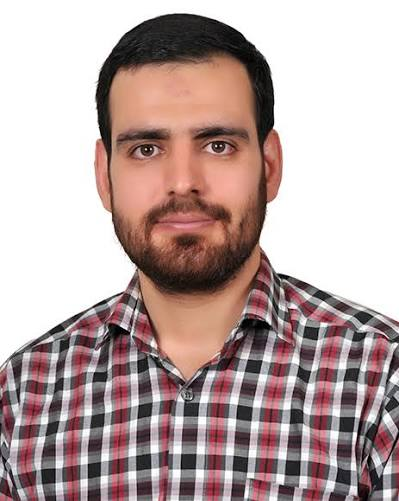
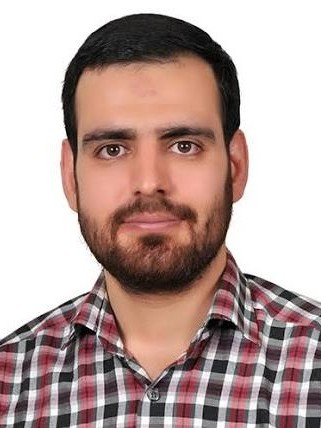
Add files via upload

diff --git a/styles.css b/styles.css
@@ -26,9 +26,10 @@ a{color:inherit;text-decoration:none}
 .brand{display:flex;align-items:center;gap:12px;font-weight:800;letter-spacing:-.02em}
 .brand-logo{height:44px;width:auto;border-radius:8px;display:block;flex:none;background:#fff;box-shadow:0 4px 12px -6px rgba(11,27,52,.45)}
 .brand small{display:block;font-weight:500;color:var(--muted);font-size:12px;letter-spacing:.02em}
+.icv{color:#0077e6}
 .nav-links{display:flex;gap:22px;font-size:14.5px;color:#334155;font-weight:500}
 .nav-links a:hover{color:var(--accent)}
-.btn{display:inline-flex;align-items:center;gap:8px;border-radius:999px;padding:10px 18px;font-weight:600;font-size:14px;border:1px solid var(--line);background:#fff;color:var(--ink);transition:.2s;cursor:pointer}
+.btn{display:inline-flex;align-items:center;gap:8px;border-radius:999px;padding:10px 18px;font-weight:600;font-size:14px;border:1px solid var(--line);background:#fff;color:var(--ink);transition:.2s;cursor:pointer;white-space:nowrap}
 .btn:hover{transform:translateY(-1px);box-shadow:var(--shadow)}
 .btn-primary{background:linear-gradient(135deg,var(--accent),var(--accent-2));color:#fff;border-color:transparent}
 .btn-primary:hover{box-shadow:0 10px 22px -12px rgba(2,132,199,.8)}
@@ -40,20 +41,20 @@ a{color:inherit;text-decoration:none}
 .hero-inner{max-width:1120px;padding:72px 0 54px;display:flex;gap:60px;align-items:flex-start}
 .hero-main{flex:1;min-width:0}
 .hero-top{display:flex;align-items:center;gap:34px;margin-bottom:30px}
-.hero-logo{height:140px;width:auto;border-radius:18px;display:block;flex:none;border:1px solid var(--line);background:#fff;padding:9px;box-shadow:0 18px 40px -22px rgba(2,132,199,.6)}
+.hero-logo{height:140px;width:auto;border-radius:18px;display:block;flex:none;border:1px solid var(--line);background:#fff;padding:9px;box-shadow:0 6px 18px -8px rgba(2,132,199,.35),0 2px 6px -2px rgba(11,27,52,.12)}
 .eyebrow{display:inline-flex;align-items:center;gap:9px;font-size:12px;font-weight:700;letter-spacing:.13em;text-transform:uppercase;color:var(--accent)}
-.dot{width:6px;height:6px;border-radius:50%;background:var(--accent-2)}
 h1{font-size:clamp(38px,5.4vw,58px);line-height:1.04;letter-spacing:-.04em;margin:18px 0 20px;font-weight:700}
-h1 .uni{display:block;font-size:17px;font-weight:500;color:var(--muted);letter-spacing:-.01em;margin-top:14px}
+h1 .uni{display:flex;align-items:center;gap:10px;font-size:18px;font-weight:500;color:var(--muted);letter-spacing:-.01em;margin-top:14px}
+.uni-logo{height:32px;width:auto;display:inline-block;flex:none;filter:drop-shadow(0 2px 4px rgba(11,27,52,.08))}
 .lead{font-size:17px;line-height:1.7;color:#475569;max-width:62ch;margin:0 0 8px}
 .hero-actions{display:flex;flex-direction:column;gap:10px}
 .hero-actions .btn{justify-content:center;text-align:center;width:100%}
 .btn-link{display:inline-flex;align-items:center;justify-content:center;gap:7px;font-size:14px;font-weight:600;color:var(--accent);transition:.18s;border:1px solid transparent}
 .btn-link:hover{color:var(--ink);gap:9px}
-.hero-meta{display:flex;flex-direction:column;gap:20px;margin:0;width:280px;background:#f8fafc;border:1px solid var(--line);border-radius:18px;padding:22px;flex-shrink:0;box-shadow:var(--shadow)}
-.hero-meta-list{display:grid;grid-template-columns:1fr;gap:14px;margin:0}
+.hero-meta{display:flex;flex-direction:column;gap:24px;margin:0;width:290px;background:#f8fafc;border:1px solid var(--line);border-radius:18px;padding:24px 22px;flex-shrink:0;box-shadow:var(--shadow)}
+.hero-meta-list{display:grid;grid-template-columns:1fr;gap:18px;margin:0}
 .hero-meta-list dt{font-size:11.5px;text-transform:uppercase;letter-spacing:.1em;color:var(--muted);font-weight:700}
-.hero-meta-list dd{margin:5px 0 0;font-size:14px;font-weight:600;letter-spacing:-.01em;word-break:break-word}
+.hero-meta-list dd{margin:6px 0 0;font-size:14px;font-weight:600;letter-spacing:-.01em;word-break:break-word;line-height:1.45}
 
 /* Sections */
 .section{padding:48px 0 8px}
@@ -104,24 +105,29 @@ h1 .uni{display:block;font-size:17px;font-weight:500;color:var(--muted);letter-s
 
 /* Featured (lab director) wide card */
 .director-section{margin-bottom:34px}
-.card-wide{grid-column:1/-1;flex-direction:row;min-height:220px;height:auto;background:linear-gradient(120deg,#0c4a6e 0%,#0284c7 55%,#0ea5e9 100%);color:#fff;border:1px solid rgba(255,255,255,.14);box-shadow:0 24px 50px -22px rgba(8,47,73,.7);position:relative}
+.card-wide{grid-column:1/-1;flex-direction:row;min-height:230px;height:auto;background:linear-gradient(120deg,#0c4a6e 0%,#0284c7 55%,#0ea5e9 100%);color:#fff;border:1px solid rgba(255,255,255,.14);box-shadow:0 24px 50px -22px rgba(8,47,73,.7);position:relative}
 .card-wide::after{content:"";position:absolute;left:0;right:0;bottom:-22px;height:2px;border-radius:2px;background:linear-gradient(90deg,transparent,rgba(56,189,248,.75) 18%,rgba(56,189,248,.75) 82%,transparent)}
-.card-wide .card-top{width:200px;min-height:220px;height:auto;flex:none}
+.card-wide .card-top{width:210px;min-height:230px;height:auto;flex:none}
 .card-wide .card-top img{width:100%;height:100%;object-fit:cover;object-position:top}
 .card-wide .badge{font-size:11px;background:rgba(255,255,255,.95);color:var(--ink);top:10px;left:10px}
-.wide-body{display:flex;flex-direction:column;justify-content:space-between;padding:18px 24px 8px;flex:1;min-width:0;gap:12px}
-.wide-content{display:flex;flex-direction:column;gap:10px}
-.wide-head{display:flex;align-items:center;gap:14px;flex-wrap:wrap}
-.wide-head h3{margin:0;font-size:20px;letter-spacing:-.03em;font-weight:700}
-.tag-cat{background:rgba(255,255,255,.18);color:#fff;border-color:rgba(255,255,255,.35);text-transform:uppercase;letter-spacing:.07em;font-size:11px;font-weight:600;padding:5px 12px}
-.wide-desc{display:-webkit-box;-webkit-line-clamp:2;-webkit-box-orient:vertical;overflow:hidden;font-size:13.5px;max-width:84ch;flex:none;margin:0;color:rgba(255,255,255,.86);line-height:1.55}
-.wide-details{display:flex;align-items:center;justify-content:space-between;gap:16px;flex-wrap:wrap;margin-top:2px}
-.wide-meta{display:flex;align-items:center;gap:16px;font-size:12.5px;color:rgba(255,255,255,.85);flex-wrap:wrap}
-.meta-item{display:inline-flex;align-items:center;gap:6px;background:rgba(255,255,255,.1);border:1px solid rgba(255,255,255,.18);padding:3px 10px;border-radius:999px}
-.meta-icon{font-size:13px;opacity:.9}
-.card-wide .card-foot{border-top:1px solid rgba(255,255,255,.18);padding:10px 0 6px;margin-top:0}
-.card-wide .view{font-size:13px;color:#e0f2fe}
-.card-wide .tag{background:rgba(255,255,255,.14);border-color:rgba(255,255,255,.24);color:#eaf2ff;padding:3px 9px;font-size:11px}
+.wide-body{display:flex;flex-direction:column;justify-content:space-between;padding:22px 26px 12px;flex:1;min-width:0;gap:14px}
+.wide-content{display:flex;flex-direction:column;gap:12px;flex:1}
+.wide-head{display:flex;flex-direction:column;align-items:flex-start;gap:10px}
+.wide-head h3{margin:0;font-size:22px;letter-spacing:-.03em;font-weight:700}
+.tag-cat{background:rgba(255,255,255,.2);color:#fff;border-color:rgba(255,255,255,.38);text-transform:uppercase;letter-spacing:.06em;font-size:11.5px;font-weight:700;padding:5px 12px;display:inline-block}
+.wide-desc{display:-webkit-box;-webkit-line-clamp:2;-webkit-box-orient:vertical;overflow:hidden;font-size:14.5px;max-width:88ch;flex:none;margin:2px 0 0;color:rgba(255,255,255,.92);line-height:1.6}
+.wide-tags-row{margin-top:auto;padding-top:6px}
+.card-wide .tags{gap:6px}
+.card-wide .tag{background:rgba(255,255,255,.15);border-color:rgba(255,255,255,.26);color:#f0f7ff;padding:4px 11px;font-size:12px;font-weight:500}
+.card-wide .card-foot{border-top:1px solid rgba(255,255,255,.18);padding:10px 0 4px;margin-top:4px}
+.wide-foot-left{display:flex;align-items:center;gap:14px;flex-wrap:wrap}
+.wide-meta{display:inline-flex;align-items:center;gap:10px;font-size:13px;color:rgba(255,255,255,.88);flex-wrap:wrap}
+.meta-item{display:inline-flex;align-items:center;gap:5px;background:none;border:none;padding:0;font-size:13px;font-weight:500;color:rgba(255,255,255,.9)}
+.meta-link{color:rgba(255,255,255,.95);text-decoration:none;transition:color .2s}
+.meta-link:hover{color:#fff;text-decoration:underline}
+.meta-dot{color:rgba(255,255,255,.4);font-weight:bold}
+.meta-icon{font-size:13.5px;opacity:.95}
+.card-wide .view{font-size:13.5px;color:#e0f2fe;font-weight:600}
 .card-wide .icon-btn{background:rgba(255,255,255,.14);border-color:rgba(255,255,255,.3);color:#fff}
 .card-wide .icon-btn:hover{background:#fff;color:var(--accent);border-color:#fff}
 
@@ -134,10 +140,11 @@ h1 .uni{display:block;font-size:17px;font-weight:500;color:var(--muted);letter-s
 
 /* Footer */
 footer{background:var(--navy);color:rgba(255,255,255,.68)}
-.foot{display:flex;justify-content:space-between;gap:24px;padding:38px 0;flex-wrap:wrap;font-size:14px}
+.foot{display:flex;justify-content:space-between;gap:20px;padding:32px 0;flex-wrap:wrap;font-size:13.5px}
 .foot strong{color:#fff}
-.foot-brand{display:flex;gap:12px;align-items:flex-start}
-.foot-logo{height:36px;width:auto;border-radius:8px;flex:none;margin-top:2px;background:#fff;box-shadow:0 6px 16px -8px rgba(0,0,0,.8)}
+.foot-brand{display:flex;gap:12px;align-items:center}
+.foot-logo{height:34px;width:auto;border-radius:6px;flex:none;background:#fff;padding:2px}
+.foot-copy{font-size:13px;color:rgba(255,255,255,.6);line-height:1.5;text-align:right}
 
 /* Member page */
 .back{display:inline-flex;align-items:center;gap:8px;margin:26px 0 18px;font-size:14px;font-weight:600;color:#475569}
@@ -179,23 +186,69 @@ footer{background:var(--navy);color:rgba(255,255,255,.68)}
   .hero-meta{width:100%}
 }
 @media(max-width:760px){
-  .grid{grid-template-columns:repeat(2,1fr)}
-  .card-wide{flex-direction:column;height:auto;margin-bottom:28px}
-  .card-wide .card-top{width:100%;height:200px;min-height:200px}
-  .card-wide .card-top img{min-height:0;height:100%;object-fit:cover;object-position:top}
-  .wide-body{padding:18px 18px 12px;gap:14px}
-  .wide-details{flex-direction:column;align-items:flex-start;gap:10px}
-  .wide-meta{gap:8px}
-  .card-wide .card-foot{padding:12px 0 6px}
+  .nav-inner{height:60px}
+  .nav-right{gap:12px}
+  .nav-right .btn{padding:8px 14px;font-size:13px}
+  .grid{grid-template-columns:repeat(3,1fr);gap:10px}
+  .card-wide{flex-direction:row;align-items:stretch;min-height:0;height:auto;margin-bottom:24px}
+  .card-wide .card-top{width:130px;height:auto;min-height:100%;flex:none}
+  .card-wide .card-top img{width:100%;height:100%;object-fit:cover;object-position:top}
+  .wide-body{padding:14px 16px 10px;gap:8px}
+  .wide-content{gap:8px}
+  .wide-head{gap:8px}
+  .wide-head h3{font-size:17px}
+  .tag-cat{font-size:10px;padding:3px 9px}
+  .wide-desc{font-size:12.5px;line-height:1.5;-webkit-line-clamp:3;margin:0}
+  .wide-tags-row{margin-top:2px;padding-top:0}
+  .wide-foot-left{gap:10px}
+  .wide-meta{gap:6px;margin-left:0}
+  .meta-item{font-size:11.5px}
+  .card-wide .card-foot{padding:8px 0 4px}
+  .card-wide .view{font-size:12px}
   .panel-cta{padding:28px 24px}
 }
 @media(max-width:560px){
-  .grid{grid-template-columns:1fr}
+  .container{padding:0 14px}
+  .brand-logo{height:36px}
+  .brand span{font-size:15px}
+  .brand small{font-size:10px}
+  .nav-right .btn{padding:7px 12px;font-size:12.5px;gap:5px}
+  .grid{grid-template-columns:repeat(3,1fr);gap:8px}
+  .card{border-radius:14px}
+  .card-top{height:125px}
+  .badge{top:6px;left:6px;font-size:9.5px;padding:2px 6px}
+  .card-body{padding:9px 10px 6px;gap:3px}
+  .card-body h3{font-size:13px;line-height:1.2}
+  .role{font-size:10.5px}
+  .desc{display:none}
+  .tags{gap:3px}
+  .tag{font-size:9.5px;padding:2px 5px}
+  .card-foot{padding:6px 10px}
+  .socials{gap:3px}
+  .icon-btn{width:24px;height:24px;border-radius:6px}
+  .icon-btn svg{width:13px;height:13px}
+  .view{font-size:10.5px}
   .hero-inner{padding:48px 0 40px}
   .hero-top{flex-direction:column;align-items:flex-start;gap:22px}
   .hero-logo{height:104px}
-  .section{padding-top:44px}
-  .card-wide .card-top{height:190px;min-height:190px}
-  .wide-head h3{font-size:18px}
-  .meta-item{font-size:12px;padding:3px 8px}
+  .section{padding-top:40px}
+  .card-wide{flex-direction:row}
+  .card-wide .card-top{width:115px;height:auto;min-height:100%}
+  .wide-body{padding:12px 14px 8px;gap:6px}
+  .wide-head h3{font-size:15px}
+  .wide-desc{font-size:11.5px;-webkit-line-clamp:2}
+  .meta-item{font-size:11px}
+  .card-wide .tag{font-size:10px;padding:2px 7px}
+  footer .container{padding:0 20px}
+  .foot{flex-direction:column;gap:12px;padding:24px 0}
+  .foot-copy{text-align:left;font-size:12.5px;line-height:1.6}
+}
+@media(max-width:400px){
+  .card-wide .card-top{width:100px}
+  .wide-head h3{font-size:14px}
+  .meta-item{font-size:10px}
+}
+@media(max-width:380px){
+  .grid{grid-template-columns:repeat(2,1fr);gap:8px}
+  .card-top{height:140px}
 }

diff --git a/index.html b/index.html
@@ -18,7 +18,7 @@
   <nav class="nav">
     <div class="container nav-inner">
       <a class="brand" href="index.html">
-        <img class="brand-logo" src="IUST_logo.png" alt="IUST logo" height="44" />
+        <img class="brand-logo" src="cvlab_iust_logo.jpeg" alt="ICVLab logo" height="44" />
         <span>ICVLab<small>Iran University of Science and Technology</small></span>
       </a>
       <div class="nav-right">
@@ -28,7 +28,7 @@
           <a href="#publications">Publications</a>
           <a href="#contact">Contact</a>
         </div>
-        <a class="btn btn-primary" href="#members">Members →</a>
+        <a class="btn btn-primary" href="#members">Members</a>
       </div>
     </div>
   </nav>
@@ -41,7 +41,7 @@
             <img class="hero-logo" src="cvlab_iust_logo.jpeg" alt="ICVLab logo" height="140" />
             <div>
               <span class="eyebrow"><span class="dot"></span><span id="lab-eyebrow"></span></span>
-              <h1>ICVLab<span class="uni">Iran University of Science and Technology</span></h1>
+              <h1><span class="icv">ICV</span>Lab<span class="uni">Iran University of Science and Technology<img class="uni-logo" src="IUST_logo.png" alt="IUST logo" height="32" /></span></h1>
             </div>
           </div>
           <p class="lead" id="hero-subtitle"></p>
@@ -49,8 +49,8 @@
         <div class="hero-meta">
           <dl class="hero-meta-list">
             <div>
-              <dt>Department</dt>
-              <dd id="fact-dept"></dd>
+              <dt>Location</dt>
+              <dd id="fact-loc"></dd>
             </div>
             <div>
               <dt>Email</dt>
@@ -58,8 +58,8 @@
             </div>
           </dl>
           <div class="hero-actions">
-            <a class="btn btn-primary" href="#contact">Contact the lab →</a>
-            <a class="btn btn-ghost btn-link" href="#members">Meet the team</a>
+            <a class="btn btn-primary" href="#contact">Contact the lab</a>
+            <a class="btn" href="#members">Meet the team</a>
           </div>
         </div>
       </div>
@@ -126,11 +126,13 @@
 
   <footer>
     <div class="container foot">
-      <div class="foot-brand"><img class="foot-logo" src="cvlab_iust_logo.jpeg" alt=""
-          height="36" /><span><strong>ICVLab</strong> · Iran University of Science and Technology<br><span
-            id="foot-uni"></span></span></div>
-      <div>Built as a lightweight static site — edit <strong>data.js</strong> to replace sample members.<br>© 2026
-        ICVLab</div>
+      <div class="foot-brand">
+        <img class="foot-logo" src="IUST_logo.png" alt="IUST logo" height="36" />
+        <span><strong>ICVLab</strong> · Iran University of Science and Technology<br><span id="foot-uni"></span></span>
+      </div>
+      <div class="foot-copy">
+        Department of Artificial Intelligence & Robotics<br>© 2026 ICVLab. All rights reserved.
+      </div>
     </div>
   </footer>
 
@@ -146,9 +148,9 @@
 
     document.getElementById('hero-subtitle').textContent = LAB_INFO.heroSubtitle;
     document.getElementById('lab-eyebrow').textContent = 'Open positions · MSc & PhD students';
-    document.getElementById('fact-dept').textContent = LAB_INFO.department;
+    if (document.getElementById('fact-dept')) document.getElementById('fact-dept').textContent = LAB_INFO.department;
     if (document.getElementById('fact-loc')) document.getElementById('fact-loc').textContent = LAB_INFO.location;
-    document.getElementById('fact-email').textContent = LAB_INFO.email;
+    if (document.getElementById('fact-email')) document.getElementById('fact-email').textContent = LAB_INFO.email;
     const founded = LAB_INFO.founded;
     if (document.getElementById('fact-year')) document.getElementById('fact-year').textContent = founded || '';
     document.getElementById('contact-email').textContent = LAB_INFO.email;
@@ -173,19 +175,22 @@
         <div class="wide-content">
           <div class="wide-head">
             <h3>${prof.name}</h3>
-            <span class="tag tag-cat">Associated Professor</span>
+            <div><span class="tag tag-cat">Associated Professor</span></div>
           </div>
           <p class="desc wide-desc">${prof.bio}</p>
-          <div class="wide-details">
+          <div class="wide-tags-row">
             <div class="tags">${prof.tags.map(t => `<span class="tag">${t}</span>`).join('')}</div>
+          </div>
+        </div>
+        <div class="card-foot wide-foot">
+          <div class="wide-foot-left">
+            <div class="socials">${iconBtn(prof.github, 'GitHub', gh)}${iconBtn(prof.linkedin, 'LinkedIn', li)}</div>
             <div class="wide-meta">
-              <span class="meta-item"><span class="meta-icon">✉</span>${prof.email}</span>
+              <a class="meta-item meta-link" href="mailto:${prof.email}" onclick="event.stopPropagation()"><span class="meta-icon">✉</span>${prof.email}</a>
+              <span class="meta-dot">·</span>
               <span class="meta-item"><span class="meta-icon">📍</span>${prof.location}</span>
             </div>
           </div>
-        </div>
-        <div class="card-foot">
-          <div class="socials">${iconBtn(prof.github, 'GitHub', gh)}${iconBtn(prof.linkedin, 'LinkedIn', li)}</div>
           <span class="view">View full profile →</span>
         </div>
       </div>

diff --git a/data.js b/data.js
@@ -6,7 +6,7 @@ const LAB_INFO = {
   university: "Iran University of Science and Technology",
   department: "Department of Computer Engineering",
   email: "contact@cvlab.university.edu",
-  location: "Engineering Building, Room 404",
+  location: "2nd Floor, Computer Engineering Building",
   heroTitle: "ICVLab",
   heroSubtitle:
     "Computer Vision Laboratory of the Department of Artificial Intelligence and Robotics, School of Computer Engineering at Iran University of Science and Technology.",
@@ -134,22 +134,22 @@ const MEMBERS = [
     projects: ["Visual Learning Models"],
   },
   {
-    id: "attila-roshani",
-    name: "Attila Roshani",
+    id: "mehrshad-fallah",
+    name: "Mehrshad Fallah",
     role: "Graduate Researcher",
-    category: "BSc",
-    image: "profile_pics/Attila_Roshani.jpeg",
-    shortBio: "Working on real-time visual tracking, detection, and scene perception.",
-    tags: ["Object Detection", "Tracking", "Real-time AI"],
+    category: "MSc",
+    image: "profile_pics/Mehrshad_Fallah.jpg",
+    shortBio: "Researching computer vision, deep learning representations, and intelligent systems.",
+    tags: ["Computer Vision", "Deep Learning", "Pattern Recognition"],
     github: "https://github.com/",
     linkedin: "https://linkedin.com/",
-    email: "attila_roshani@iust.ac.ir",
+    email: "mehrshad_fallah@iust.ac.ir",
     location: "Lab Room 404",
-    bio: "Attila Roshani researches real-time object tracking, detection systems, and dynamic scene understanding at ICVLab.",
+    bio: "Mehrshad Fallah is a graduate researcher at ICVLab at Iran University of Science and Technology, focusing on computer vision and deep learning models.",
     education: ["M.Sc. Student in Computer Engineering, IUST"],
-    interests: ["Object Tracking", "Object Detection", "Edge Vision"],
+    interests: ["Computer Vision", "Deep Learning", "Visual Representation"],
     publications: [],
-    projects: ["Dynamic Scene Perception"],
+    projects: ["Deep Vision Systems"],
   },
   {
     id: "kamyar-moradian",
@@ -206,21 +206,21 @@ const MEMBERS = [
     projects: ["Self-Supervised Vision"],
   },
   {
-    id: "mehrshad-fallah",
-    name: "Mehrshad Fallah",
+    id: "attila-roshani",
+    name: "Attila Roshani",
     role: "Graduate Researcher",
-    category: "MSc",
-    image: "profile_pics/Mehrshad_Fallah.jpg",
-    shortBio: "Researching computer vision, deep learning representations, and intelligent systems.",
-    tags: ["Computer Vision", "Deep Learning", "Pattern Recognition"],
+    category: "BSc",
+    image: "profile_pics/Attila_Roshani.jpeg",
+    shortBio: "Working on real-time visual tracking, detection, and scene perception.",
+    tags: ["Object Detection", "Tracking", "Real-time AI"],
     github: "https://github.com/",
     linkedin: "https://linkedin.com/",
-    email: "mehrshad_fallah@iust.ac.ir",
+    email: "attila_roshani@iust.ac.ir",
     location: "Lab Room 404",
-    bio: "Mehrshad Fallah is a graduate researcher at ICVLab at Iran University of Science and Technology, focusing on computer vision and deep learning models.",
+    bio: "Attila Roshani researches real-time object tracking, detection systems, and dynamic scene understanding at ICVLab.",
     education: ["M.Sc. Student in Computer Engineering, IUST"],
-    interests: ["Computer Vision", "Deep Learning", "Visual Representation"],
+    interests: ["Object Tracking", "Object Detection", "Edge Vision"],
     publications: [],
-    projects: ["Deep Vision Systems"],
+    projects: ["Dynamic Scene Perception"],
   },
 ];

diff --git a/member.html b/member.html
@@ -12,7 +12,7 @@
 <body>
 <nav class="nav">
   <div class="container nav-inner">
-    <a class="brand" href="index.html"><img class="brand-logo" src="IUST_logo.png" alt="IUST logo" height="44" /><span>CVLab<small>Iran University of Science and Technology</small></span></a>
+    <a class="brand" href="index.html"><img class="brand-logo" src="cvlab_iust_logo.jpeg" alt="ICVLab logo" height="44" /><span>CVLab<small>Iran University of Science and Technology</small></span></a>
     <div class="nav-right">
       <div class="nav-links"><a href="index.html#about">About</a><a href="index.html#research">Research</a><a href="index.html#publications">Publications</a><a href="index.html#contact">Contact</a></div>
       <a class="btn btn-primary" href="index.html#members">← Members</a>
@@ -28,8 +28,8 @@
 
 <footer>
   <div class="container foot">
-    <div class="foot-brand"><img class="foot-logo" src="cvlab_iust_logo.jpeg" alt="" height="36" /><span><strong>CVLab</strong> · Iran University of Science and Technology</span></div>
-    <div>© 2026 CVLab</div>
+    <div class="foot-brand"><img class="foot-logo" src="IUST_logo.png" alt="IUST logo" height="36" /><span><strong>ICVLab</strong> · Iran University of Science and Technology</span></div>
+    <div class="foot-copy">Department of Artificial Intelligence & Robotics<br>© 2026 ICVLab. All rights reserved.</div>
   </div>
 </footer>
 
